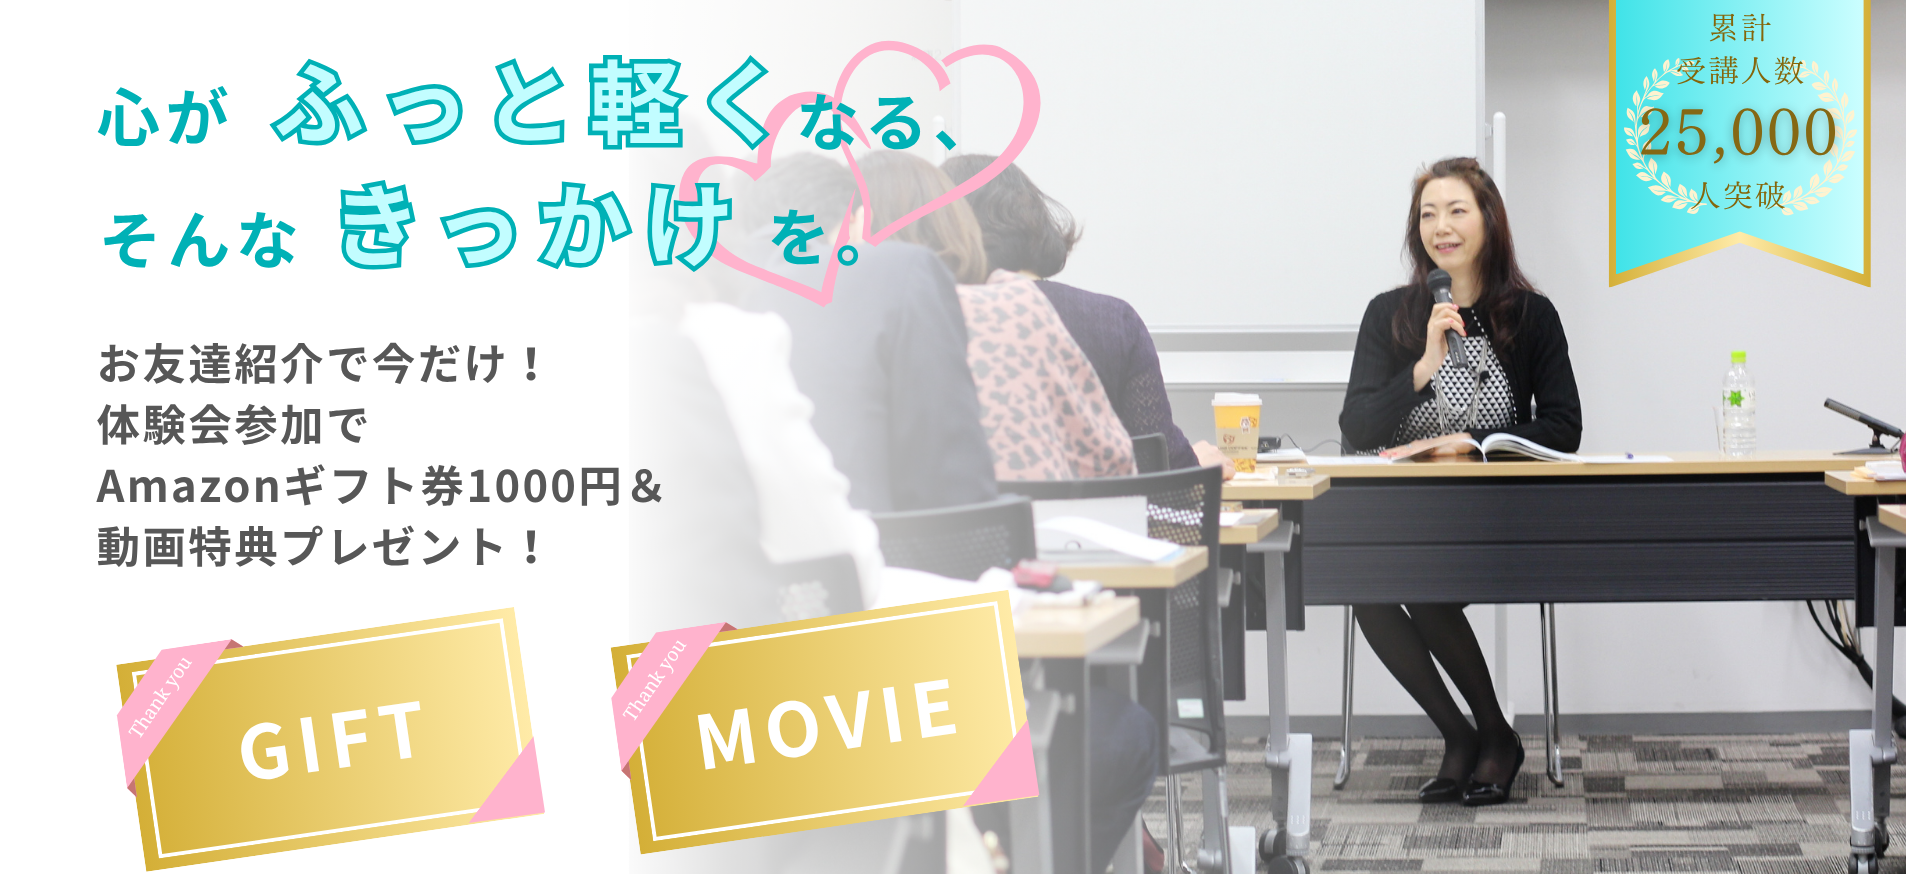
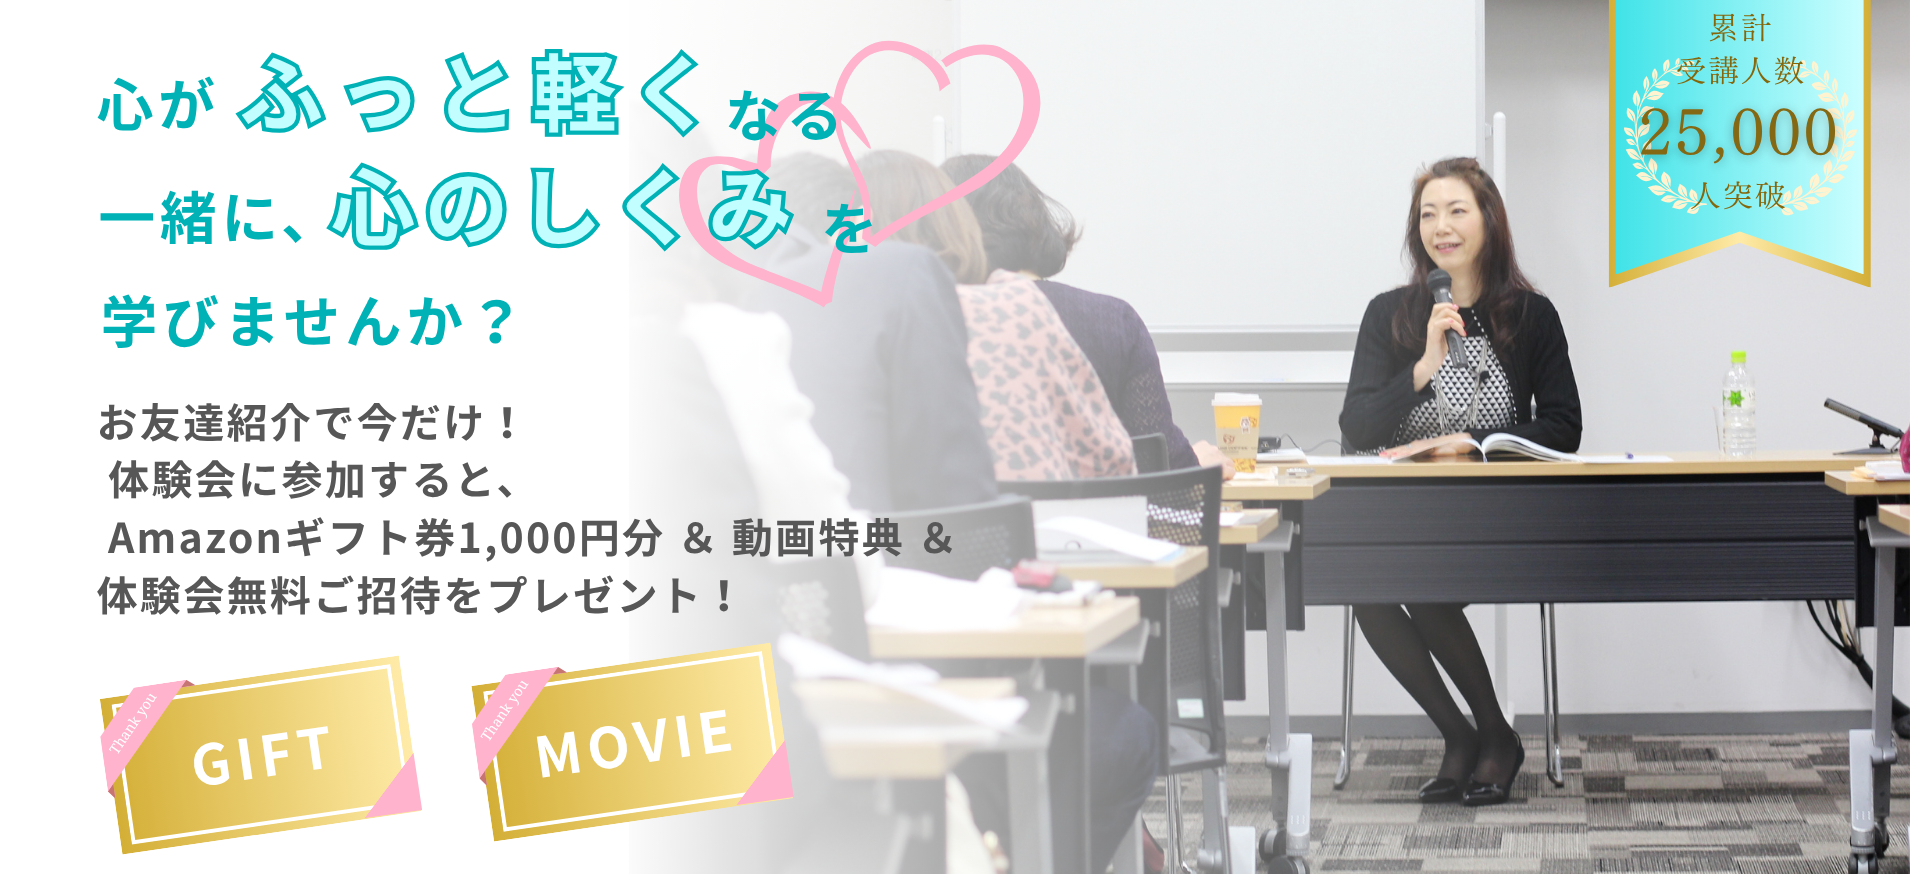
Add files via upload

diff --git a/style.css b/style.css
@@ -217,7 +217,7 @@ section {
 .mainvisual {
   max-width: 100%;
   padding-bottom: 0;
-  padding-top: 3.5rem;
+  padding-top:4rem;
 }
 /************************************
 特典
@@ -318,6 +318,36 @@ section {
   text-align: center;
   margin: 5%;
 }
+.voice-link-container{
+  text-align: center;
+  display: flex;
+  flex-direction: column;
+  margin-top: 5%;
+  font-weight: bold;
+  font-size: 1.2rem;
+  line-height: 2;
+}
+.voice-link-container a{
+  width: 40%;
+  margin: 0 auto;
+  border-radius: 5px;
+  box-shadow: 2px 2px 2px 2px rgba(0, 0, 0, 0.25);
+  font-weight: bold;
+  cursor: pointer;
+  position: relative;
+  top: 0;
+  left: 0;
+  transition: all 0.3s ease;
+  margin-top: 3%;
+  }
+.voice-link-container a:hover{
+  box-shadow: none;
+  top: 2px;
+  left: 2px;
+  color: white;
+  opacity: 1;
+}
+
 /************************************
 ご予約
 ************************************/
@@ -519,6 +549,7 @@ footer p {
     max-height: 550px;
   }
 }
+
 @media screen and (max-width: 599px) {
   .is-pc{
     display: none;
@@ -558,6 +589,12 @@ footer p {
   }
   .voice-box-description{
     font-size: 0.8rem;
+  }
+  .voice-link-container{
+    font-size: 0.9rem;
+  }
+  .voice-link-container a{
+    width: 60%;
   }
   .qa-container{
     width: 95%;

diff --git a/index.html b/index.html
@@ -44,7 +44,7 @@
       </div>
     </header>
     <section class="mainvisual fade-in">
-      <img class="is-pc" src="img/mainvisual-pc3.jpg" />
+      <img class="is-pc" src="img/mainvisual-pc2.png" />
       <img class="is-sp" src="img/mainvisual-sp.png" />
     </section>
 
@@ -117,6 +117,15 @@
             </div>
           </div>
         </div>
+      </div>
+      <div class="voice-link-container fade-in">
+        その他のフラクタル心理学マスターコース<br>
+        ご受講者のご感想はこちらへ<br>
+        フラクタル心理学を学んで<br>
+        人生を飛躍させた方々の<br class="is-sp">体験談を紹介しています！
+        <a class="pink__button" href="https://press.taw.ac/" target="_blank">
+          その他受講者様のお声
+        </a>
       </div>
     </section>
 
